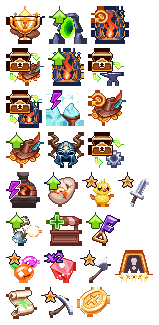
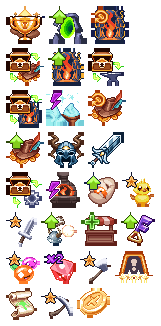
feat: added missing image

diff --git a/shell/app.js b/shell/app.js
@@ -127,7 +127,7 @@ async function ensureBonusesSection(routeId) {
     const section = { mount, handle: null };
     sectionCache[cacheKey] = section;
     ensureMountAttached(section);
-    const { mountBonusesSection } = await import('/bonuses/app.js?v=767748bb27');
+    const { mountBonusesSection } = await import('/bonuses/app.js?v=80d37daa77');
     section.handle = await mountBonusesSection({
         container: mount,
         sectionKind: cacheKey === 'tools' ? 'tools' : 'bonuses'
@@ -141,7 +141,7 @@ async function ensureCardsSection(search = window.location.search) {
     const section = { mount, handle: null };
     sectionCache.cards = section;
     ensureMountAttached(section);
-    const { mountCardsSection, resolveCardsRouteState } = await import('/cards/app.js?v=cdb380a8d9');
+    const { mountCardsSection, resolveCardsRouteState } = await import('/cards/app.js?v=609d518787');
     section.handle = await mountCardsSection({
         container: mount,
         initialRouteState: resolveCardsRouteState(search)
@@ -195,7 +195,7 @@ async function activateRoute(routeId, {
         if (restoreFromSectionState) {
             section.handle.restoreRoute?.();
         } else {
-            const { resolveCardsRouteState } = await import('/cards/app.js?v=cdb380a8d9');
+            const { resolveCardsRouteState } = await import('/cards/app.js?v=609d518787');
             section.handle.updateRouteState?.(resolveCardsRouteState(search));
         }
         section.handle.refresh?.();

diff --git a/bonuses/app.js b/bonuses/app.js
@@ -20,8 +20,8 @@ import { DataTablePopover } from './components/DataTablePopover.js?v=2678c8b5a6'
 import { QuantityPopover } from './components/QuantityPopover.js?v=28b4c04010';
 import { EngineeringPlannerPanel } from './components/EngineeringPlannerPanel.js?v=5f7460101a';
 import { SpriteImage } from './components/SpriteImage.js?v=a6508ec846';
-import { BonusSourceResolver } from './app/sourceResolver.js?v=700b415eb9';
-import { BonusDataLoader } from './app/dataLoader.js?v=14790c006b';
+import { BonusSourceResolver } from './app/sourceResolver.js?v=74085f2f5b';
+import { BonusDataLoader } from './app/dataLoader.js?v=bcb6e79571';
 import { BonusUrlState, resolveSelectedClassId } from './app/urlState.js?v=137cc9b4f8';
 import { BonusAppLifecycle } from './app/lifecycle.js?v=add148331d';
 import { BonusSaveIntegration } from './app/saveIntegration.js?v=982c4e5999';

diff --git a/bonuses/app/dataLoader.js b/bonuses/app/dataLoader.js
@@ -1,8 +1,8 @@
 import { CARD_SAVE_KEYS } from './saveMappings.js?v=434569d500';
 
 const BONUSES_BASE_URL = new URL('../', import.meta.url);
-const BONUSES_DATA_URL = new URL('../bonuses.json?v=b6d6268aa2', import.meta.url);
-const ATLAS_MANIFEST_URL = new URL('../../generated/image-atlas-manifest.json?v=4cfb780a50', import.meta.url);
+const BONUSES_DATA_URL = new URL('../bonuses.json?v=2b3e3c3ed7', import.meta.url);
+const ATLAS_MANIFEST_URL = new URL('../../generated/image-atlas-manifest.json?v=15e8e8766c', import.meta.url);
 
 export class BonusDataLoader {
     constructor(app) {

diff --git a/bonuses/app/sourceResolver.js b/bonuses/app/sourceResolver.js
@@ -1,6 +1,6 @@
 import { atlasEntryToImageAsset, atlasSourcePathToImageAsset, resolveAtlasPathFromManifest } from '../../shell/lib/imageAtlas.js?v=2593e30b08';
 
-const ATLAS_MANIFEST_PATH = '../generated/image-atlas-manifest.json?v=4cfb780a50';
+const ATLAS_MANIFEST_PATH = '../generated/image-atlas-manifest.json?v=15e8e8766c';
 const LEGACY_BONUSES_ATLAS_MANIFEST_PATH = ATLAS_MANIFEST_PATH.slice(3);
 
 export class BonusSourceResolver {

diff --git a/bonuses/index.html b/bonuses/index.html
@@ -19,6 +19,6 @@
 </head>
 <body>
 <div id="shell-root" data-shell-cloak data-shell-mobile-title="Bonuses"></div>
-<script type="module" src="/shell/app.js?v=1035634723"></script>
+<script type="module" src="/shell/app.js?v=783ad8388f"></script>
 </body>
 </html>

diff --git a/cards/app.js b/cards/app.js
@@ -1,1 +1,1 @@
-export { mountCardsSection, resolveCardsRouteState } from './app/sectionMount.js?v=d3c1583074';
+export { mountCardsSection, resolveCardsRouteState } from './app/sectionMount.js?v=dd62d6a5ce';

diff --git a/cards/app/sectionMount.js b/cards/app/sectionMount.js
@@ -1,4 +1,4 @@
-import { mountCardsApp } from '../module.js?v=07878b7453';
+import { mountCardsApp } from '../module.js?v=b6c644e802';
 
 export function resolveCardsRouteState(search = '') {
     const params = new URLSearchParams(search);

diff --git a/cards/index.html b/cards/index.html
@@ -19,6 +19,6 @@
 </head>
 <body>
 <div id="shell-root" data-shell-cloak data-shell-mobile-title="Cards"></div>
-<script type="module" src="/shell/app.js?v=1035634723"></script>
+<script type="module" src="/shell/app.js?v=783ad8388f"></script>
 </body>
 </html>

diff --git a/cards/module.js b/cards/module.js
@@ -189,7 +189,7 @@ function resolveCardsDataUrl(moduleUrl = import.meta.url) {
 }
 
 function resolveCardsAtlasManifestUrl(moduleUrl = import.meta.url) {
-    return new URL('../generated/image-atlas-manifest.json?v=4cfb780a50', moduleUrl).toString();
+    return new URL('../generated/image-atlas-manifest.json?v=15e8e8766c', moduleUrl).toString();
 }
 
 function resolveLegacyCardsAtlasManifestUrl(moduleUrl = import.meta.url) {

diff --git a/index.html b/index.html
@@ -19,6 +19,6 @@
 </head>
 <body>
 <div id="shell-root" data-shell-cloak data-shell-mobile-title="Menu"></div>
-<script type="module" src="/shell/app.js?v=1035634723"></script>
+<script type="module" src="/shell/app.js?v=783ad8388f"></script>
 </body>
 </html>